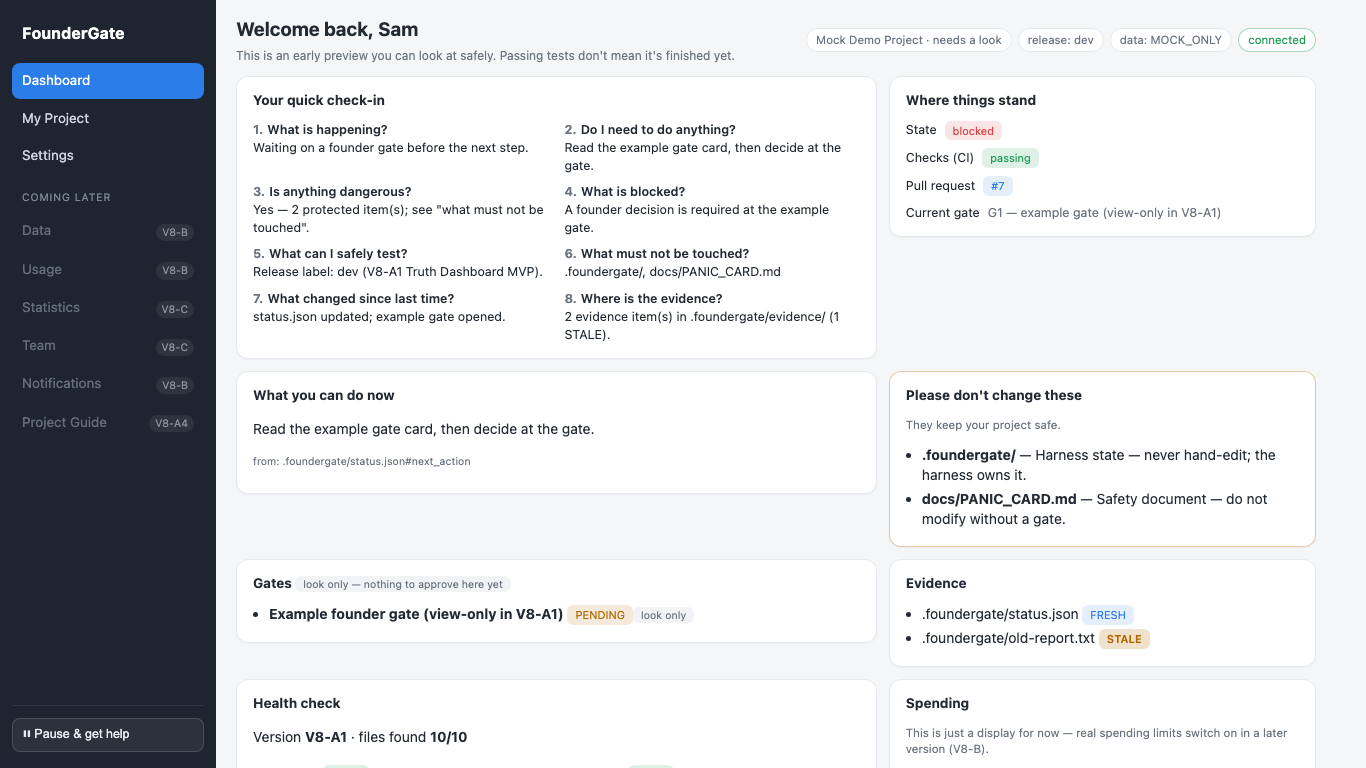
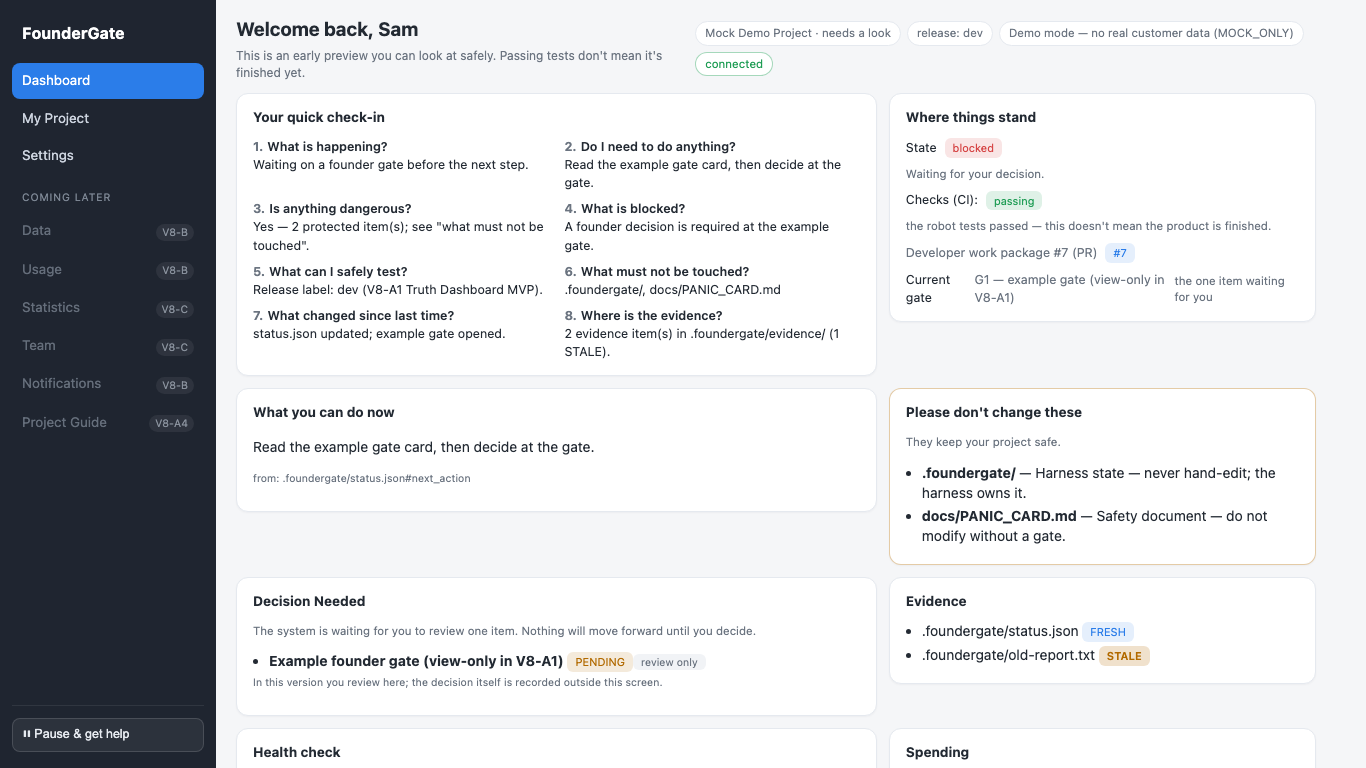
True-stranger evidence + bounded copy-polish (visible copy only; DoD #15 → PASS)
RECORD: a true non-developer Stranger Test was performed post-B3 and PASSED all
7 questions unaided (docs/assembly-evidence/B2/stranger-test-true-stranger.md).
Founder Gate Ledger G2 row updated; A28 DoD item #15 Stranger Test = PASS (true
stranger); outside-operator caveat satisfied for V8-A1. Stranger polish findings
recorded (docs/assembly-evidence/B2/bugs/stranger-polish-findings.md).

BOUNDED COPY-POLISH (one pass, visible copy/styling of A11-A24 only; no new
capability, no approve affordance, no safety/enforcement/readiness rename):
- Gates card retitled "Decision Needed" + subtitle + honest view-only note
  ("In this version you review here; the decision itself is recorded outside
  this screen"). Still view-only (Law 55); no approve buttons.
- Status: token "blocked" verbatim + plain "Waiting for your decision."
- CI row: kept "Checks (CI): passing" (NOT renamed toward safety) + gentle hint
  "the robot tests passed — this doesn't mean the product is finished."
- PR row: "Developer work package #7 (PR)" (token #7 kept).
- Data chip: "Demo mode — no real customer data (MOCK_ONLY)".
- Plain companions added for remaining tokens; file paths kept as small print.

ANTI-REPEAT: view-model.selftest now 17 checks — the five translations are
required-string assertions; a banned-pairing check forbids "safety" in the CI
row. Playwright smoke asserts the five strings on-screen + "safety" absent from
the CI row + fold/scroll/pause/nav geometry. Screenshots regenerated.
[…]

diff --git a/src/v8a1/dashboard/app.js b/src/v8a1/dashboard/app.js
@@ -46,7 +46,7 @@ function render(view) {
   $("stage-banner").textContent = view.header.stageBanner;
   $("project-chip").textContent = view.project.name + (view.project.needsAttention ? " · needs a look" : "");
   $("release-chip").textContent = "release: " + view.header.releaseLabel;
-  $("dataclass-chip").textContent = "data: " + view.header.dataClass;
+  $("dataclass-chip").textContent = view.header.dataChip;
   const cc = $("connected-chip");
   cc.textContent = view.header.connected ? "connected" : "not connected";
   cc.className = "chip " + (view.header.connected ? "on" : "off");
@@ -68,14 +68,17 @@ function render(view) {
     ql.appendChild(li);
   }
 
-  // Status card
+  // Status card (tokens verbatim; plain companions added)
   $("status-title").textContent = view.statusCard.title;
   $("state-badge").replaceWith(Object.assign(badgeEl({ text: view.statusCard.state, kind: view.statusCard.state === "blocked" ? "bad" : "info" }), { id: "state-badge", className: `badge ${view.statusCard.state === "blocked" ? "bad" : "info"}` }));
+  $("state-plain").textContent = view.statusCard.statePlain;
+  $("ci-label").textContent = view.statusCard.ciLabel + ":";
   $("ci-badge").replaceWith(Object.assign(badgeEl(view.statusCard.ci), { id: "ci-badge", className: `badge ${view.statusCard.ci.kind}` }));
-  $("pr-badge").replaceWith(Object.assign(badgeEl(view.statusCard.pr), { id: "pr-badge", className: `badge ${view.statusCard.pr.kind}` }));
   $("ci-hint").textContent = view.statusCard.ci.hint || "";
-  $("pr-hint").textContent = view.statusCard.pr.hint || "";
+  $("pr-display").textContent = view.statusCard.prDisplay;
+  $("pr-badge").replaceWith(Object.assign(badgeEl(view.statusCard.pr), { id: "pr-badge", className: `badge ${view.statusCard.pr.kind}` }));
   $("current-gate").textContent = view.statusCard.currentGate;
+  $("current-gate-plain").textContent = view.statusCard.currentGatePlain;
 
   // Needs-you
   $("needs-you-title").textContent = view.needsYou.title;
@@ -94,20 +97,23 @@ function render(view) {
   }
   if (view.doNotTouch.items.length === 0) dl.innerHTML = "<li class='hint'>Nothing to worry about right now.</li>";
 
-  // Gates (view-only)
+  // Decision Needed card (view-only, Law 55 — no approve buttons)
+  $("decision-title").textContent = view.decision.title;
+  $("decision-subtitle").textContent = view.decision.subtitle;
+  $("decision-viewonly").textContent = view.decision.viewOnlyNote;
   const gl = $("gates-list");
   gl.innerHTML = "";
-  for (const g of view.gates) {
+  for (const g of view.decision.items) {
     const li = document.createElement("li");
     li.innerHTML = `<b>${g.title}</b> `;
     li.appendChild(badgeEl({ text: g.state, kind: "unknown" }));
     const t = document.createElement("span");
     t.className = "tag";
-    t.textContent = "look only";
+    t.textContent = "review only";
     li.appendChild(t);
     gl.appendChild(li);
   }
-  if (view.gates.length === 0) gl.innerHTML = "<li class='hint'>No gates to show yet.</li>";
+  if (view.decision.items.length === 0) gl.innerHTML = "<li class='hint'>Nothing needs your decision right now.</li>";
 
   // Evidence
   const el = $("evidence-list");
@@ -122,7 +128,7 @@ function render(view) {
 
   // Health check (Doctor)
   $("doctor-title").textContent = view.doctor.title;
-  $("doctor-version").textContent = view.doctor.version;
+  $("doctor-version").textContent = `${view.doctor.version} (${view.doctor.versionPlain})`;
   $("doctor-present").textContent = view.doctor.filesPresent;
   const dc = $("doctor-checks");
   dc.innerHTML = "";

diff --git a/src/v8a1/dashboard/index.html b/src/v8a1/dashboard/index.html
@@ -48,9 +48,11 @@
             <h2 id="status-title">Where things stand</h2>
             <div class="statuslist">
               <div class="statusrow">State <span id="state-badge" class="badge"></span></div>
-              <div class="statusrow">Checks (CI) <span id="ci-badge" class="badge"></span> <span id="ci-hint" class="hint"></span></div>
-              <div class="statusrow">Pull request <span id="pr-badge" class="badge"></span> <span id="pr-hint" class="hint"></span></div>
-              <div class="statusrow">Current gate <span id="current-gate" class="soft"></span></div>
+              <div class="statusrow"><span id="state-plain" class="hint"></span></div>
+              <div class="statusrow"><span id="ci-label"></span> <span id="ci-badge" class="badge"></span></div>
+              <div class="statusrow"><span id="ci-hint" class="hint"></span></div>
+              <div class="statusrow"><span id="pr-display" class="soft"></span> <span id="pr-badge" class="badge"></span></div>
+              <div class="statusrow">Current gate <span id="current-gate" class="soft"></span> <span id="current-gate-plain" class="hint"></span></div>
             </div>
           </section>
 
@@ -66,9 +68,11 @@
             <ul id="do-not-touch-list"></ul>
           </section>
 
-          <section class="card" id="gates-card">
-            <h2>Gates <span class="tag">look only — nothing to approve here yet</span></h2>
+          <section class="card" id="decision-card">
+            <h2 id="decision-title">Decision Needed</h2>
+            <p class="hint" id="decision-subtitle"></p>
             <ul id="gates-list"></ul>
+            <p class="source" id="decision-viewonly"></p>
           </section>
 
           <section class="card" id="evidence-card">

diff --git a/docs/assembly-evidence/A28/V8-A1-acceptance-packet.md b/docs/assembly-evidence/A28/V8-A1-acceptance-packet.md
@@ -36,6 +36,8 @@ Gates: **G1 APPROVED**, **G2 PASSED** (see `../FOUNDER_GATE_LEDGER.md`).
 - **Screenshots (A24):** `../B2/screenshots/{01-truth-dashboard,01b-above-the-fold-1366x768,02-pause-pressed,03-not-connected-unknown}.png`
 - **Hand-burden (Law 64):** `../B2/hand-burden.json`
 - **G2 attempt #1 bug + resolution:** `../B2/bugs/g2-attempt-1.md`
+- **True-stranger test (PASSED, 7/7 unaided):** `../B2/stranger-test-true-stranger.md`
+- **Stranger polish findings + copy-polish:** `../B2/bugs/stranger-polish-findings.md` (jargon companions added; decision-confidence affordance parked as a future item)
 - **Phase packets:** `../B1/B1-evidence-packet.md` · `../B2/B2-evidence-packet.md`
 - **Machine-capacity preflights:** `../B0/`, `../B1/`, `../B2/`, `../B12/`, `../B3/machine-capacity-profile.json`
 - **Full suite:** `npm test` → **ALL GREEN — 19/19**
@@ -58,15 +60,15 @@ Gates: **G1 APPROVED**, **G2 PASSED** (see `../FOUNDER_GATE_LEDGER.md`).
 | 12 | Cost guard displayed as policy/config only, labeled "runtime enforcement begins V8-B" | ✅ PASS | `view-model.selftest`; schema const `policy-display-only` |
 | 13 | Minimal Playwright smoke screenshots for every V8-A1 screen | ✅ PASS | `../B2/screenshots/` (4) |
 | 14 | No terminal copy/paste needed for status review (measured, count = 0) | ✅ PASS | `hand-burden.json` `terminal_copy_paste_count: 0` |
-| 15 | Stranger Test passed (7 questions, unaided, recorded) | ⚠ PARTIAL | G2 record: **founder-performed**; a true non-developer stranger run is **deferred**, required before any outside-operator claim |
+| 15 | Stranger Test passed (7 questions, unaided, recorded) | ✅ PASS | **True non-developer stranger** passed all 7 unaided — `../B2/stranger-test-true-stranger.md`; outside-operator caveat satisfied for V8-A1 |
 | 16 | Founder Hand-Burden metrics recorded (Law 64 set) | ⚠ PARTIAL | `hand-burden.json`: terminal_copy_paste_count, clicks_to_pause, clicks_to_see_current_status, above-fold, scroll budget recorded. `founder_prompts_per_run` / `typing_required_for_bug_report` / `read_aloud_works` = **not-in-scope for V8-A1** (bug report + read-aloud arrive later) |
 | 17 | Exact-SHA CI green on the final commit (SHA recorded) | ✅ PASS | final SHA `29913080d2a6a1031797d1e77edfcbfcbc672414` · `https://github.com/yosiwizman/foundergate/actions/runs/28899979558` |
 | 18 | Acceptance packet complete with every evidence link | ✅ PASS | this document |
 
-**Honest summary:** 16 of 18 items are full green. Two are honestly PARTIAL: #15 (Stranger Test was
-founder-performed, not a true outside stranger — a real stranger run is deferred and required before any
-outside-operator claim) and #16 (the V8-A1-relevant Hand-Burden metrics are recorded; the bug-report/read-aloud
-metrics are out of V8-A1 scope). Nothing is overclaimed. **This is roadmap/UI-witness progress, not product,
+**Honest summary:** 17 of 18 items are full green. #15 Stranger Test is now **full PASS** — a true non-developer
+stranger passed all 7 questions unaided (recorded post-B3). One item remains honestly PARTIAL: #16 (the
+V8-A1-relevant Hand-Burden metrics are recorded; the bug-report/read-aloud metrics are out of V8-A1 scope).
+Nothing is overclaimed. **This is roadmap/UI-witness progress, not product,
 pilot, commercial, or production proof.**
 
 ## What V8-A1 deliberately does NOT do

diff --git a/docs/assembly-evidence/FOUNDER_GATE_LEDGER.md b/docs/assembly-evidence/FOUNDER_GATE_LEDGER.md
@@ -8,7 +8,7 @@
 | ----- | ----- | ----- | ----- | ----- |
 | 2026-07-07 | G1 — start V8-A1 implementation | **APPROVED** | "I approve starting V8-A1 implementation per the approved V8-A1 lane packet." | B0 packet SHA `6273b3808f2af8bad3983cfde41bbc44772a9dcc` (PR #15) |
 | 2026-07-07 | G2 — UI witness (attempt #1) | **FAILED (visual review)** | Founder-caught defects (verbatim): (1) layout is a long scroll wall — not friendly for a non-developer; (2) tone is developer-scary, not human; (3) the large red glowing "Panic" button is intimidating and mislabeled for a human user; (4) founder supplied a target layout direction: left sidebar app shell, welcome header, compact card grid, assistant-style polish. Stranger Test + Hand-Burden deferred to re-witness. See `docs/assembly-evidence/B2/bugs/g2-attempt-1.md`. | B2 SHA `d2ad41503caa2b9044ca30a69f4aa9a41a6940d2` (PR #17) |
-| 2026-07-07 | G2 — UI witness (re-witness after UX repair) | **PASSED** | Visual review PASSED — new app shell matches the founder's target direction, approved. Hand-Burden PASSED per `docs/assembly-evidence/B2/hand-burden.json` (zero terminal copy/paste for status; Pause one click; do-not-touch visible immediately). Stranger Test: performed by the founder; **a true non-developer stranger run is deferred and noted as required before any outside-operator claim** (honest limit — not a true-stranger PASS yet). | UX-repair SHA `170196f2f98e07322004b3b068b0963fce72cf62` (PR #18) |
+| 2026-07-07 | G2 — UI witness (re-witness after UX repair) | **PASSED** | Visual review PASSED — new app shell matches the founder's target direction, approved. Hand-Burden PASSED per `docs/assembly-evidence/B2/hand-burden.json` (zero terminal copy/paste for status; Pause one click; do-not-touch visible immediately). Stranger Test: initially founder-performed; **updated post-B3 — a true non-developer stranger run was performed and PASSED all 7 questions unaided** (see `docs/assembly-evidence/B2/stranger-test-true-stranger.md`). The outside-operator caveat is satisfied for V8-A1. | UX-repair SHA `170196f2f98e07322004b3b068b0963fce72cf62` (PR #18); true-stranger evidence recorded post-B3 |
 | | G3 — V8-A1 approve/reject | | | |
 | | G4 — V8-A2 start approve/reject | | | |
 | | Any live/payment/provider/send/production/legal/IP/security/external-account gate | | | |

diff --git a/docs/assembly-evidence/B2/stranger-test-true-stranger.md b/docs/assembly-evidence/B2/stranger-test-true-stranger.md
@@ -1,0 +1,25 @@
+# Stranger Test — true non-developer stranger (post-B3)
+
+- **Date:** 2026-07-07
+- **Performed by:** a true non-developer stranger (not the founder).
+- **Result:** **PASSED — all 7 questions answered unaided.**
+- **Full transcript:** verbatim answers to be supplied by the founder on request and appended here. Summary of the
+  unaided answers recorded below.
+
+## The 7 questions (Stranger Test) — unaided answers (summary)
+
+| # | Question | Stranger's unaided answer | Reasoning they gave |
+|---|----------|---------------------------|---------------------|
+| 1 | Is it safe? | **Yes** | Read demo-mode + paid-services-blocked from the screen |
+| 2 | Is anything dangerous? | **2 protected items found** | Saw the "don't change these" card |
+| 3 | Is it done? | **No** | Understood it's an early preview, not finished |
+| 4 | Is anything blocked? | **Yes** | Read the blocked state |
+| 5 | Does it need the owner to act? | **Yes — decide at the gate** | Saw the decision/gate item |
+| 6 | What's the next action? | **Read the gate card, then decide** | Followed the "what you can do now" card |
+| 7 | What must not be touched? | **Both paths named** | Read the two locked paths |
+
+## Verdict
+
+The dashboard passed the Stranger Test with a **true non-developer stranger**, unaided. This satisfies the
+outside-operator caveat previously attached to Definition-of-Done item #15 **for V8-A1**. (Wider outside-operator
+proof across a second project remains a later-stage goal per the roadmap.)

diff --git a/docs/assembly-evidence/B2/bugs/stranger-polish-findings.md b/docs/assembly-evidence/B2/bugs/stranger-polish-findings.md
@@ -1,0 +1,21 @@
+# Bug evidence — true-stranger polish findings (post-B3)
+
+- **Date:** 2026-07-07
+- **Source:** the true non-developer Stranger Test (which PASSED). These are *polish* findings, not failures.
+
+## Findings
+
+1. **Jargon confusion (visible technical tokens).** The stranger understood the dashboard but stumbled on raw
+   tokens: `gate`, `CI`, `PR`, `V8-A1`, `MOCK_ONLY`, and bare filenames. They want a plain-English companion for
+   each. → Fixed this lane (bounded copy-polish): "Decision Needed" retitle, "Checks (CI)" gentle hint,
+   "Developer work package #7 (PR)", "Demo mode — no real customer data (MOCK_ONLY)", plain companions for
+   remaining tokens; file paths kept as small print.
+2. **Missing decision-confidence affordance (N24).** The stranger wanted a small signal of *how confident* the
+   system is in what it's showing. → **Recorded for a later lane.** Not implemented here: adding a confidence
+   affordance is a new UI affordance beyond this bundle's bounded copy/styling scope, so it is parked as a future
+   finding rather than forced through.
+
+## Disposition
+
+Finding 1 resolved by the bounded copy-polish in this lane (each translation is now an automated required-string
+anti-repeat check). Finding 2 parked as a scoped future item (no new capability added in V8-A1).
